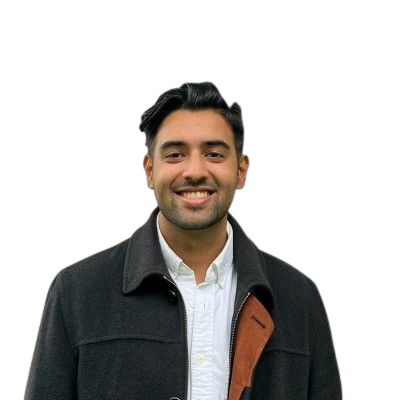
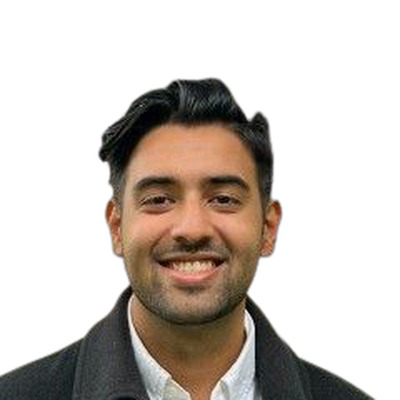
Zoom Shivam photo tighter; fix Jakob meta text
Cropped Shivam's headshot from chest-up to face-tight to match Saumya
and Jakob framing. Changed Jakob's meta from "Aerospace Eng." to
"AI Engineer".

diff --git a/decks/investor-pitch/index.html b/decks/investor-pitch/index.html
@@ -188,7 +188,7 @@
       <div class="team-name">Jakob Strozberg</div>
       <div class="team-role">CTO</div>
       <div class="team-bio">Published AI researcher who has shipped real AI products — not just studied them. Background in aerospace engineering.</div>
-      <div class="team-meta">Ex-founder · Aerospace Eng.</div>
+      <div class="team-meta">Ex-founder · AI Engineer</div>
     </div>
     <div class="team-card">
       <div class="team-photo"><img src="team/shivam.jpeg" alt="Shivam Dubey"></div>
